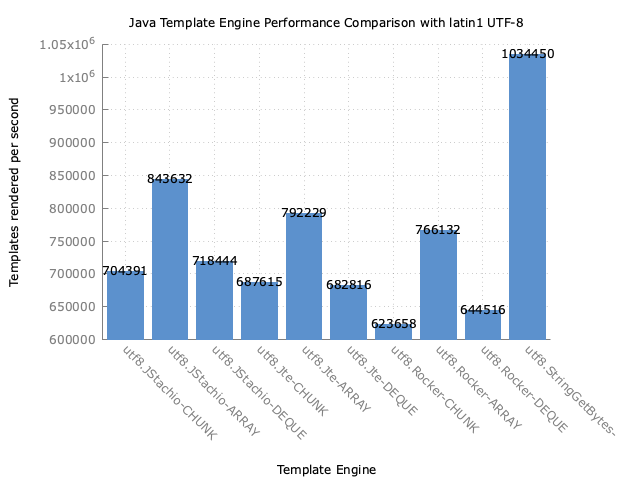
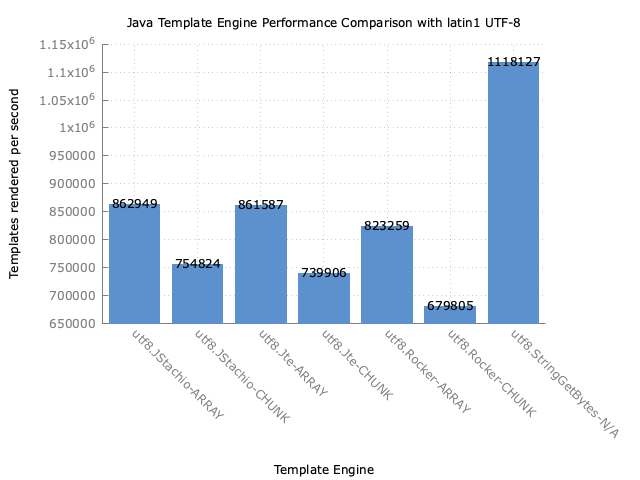
Explain output buffering algorithms

diff --git a/src/main/java/com/mitchellbosecke/benchmark/utf8/JStachioUtf8.java b/src/main/java/com/mitchellbosecke/benchmark/utf8/JStachioUtf8.java
@@ -8,7 +8,6 @@ import org.openjdk.jmh.annotations.Param;
 import org.openjdk.jmh.annotations.Setup;
 
 import com.mitchellbosecke.benchmark.BaseBenchmark;
-import com.mitchellbosecke.benchmark.JStachio;
 import com.mitchellbosecke.benchmark.JStachio.StocksModel;
 import com.mitchellbosecke.benchmark.JStachioStocksTemplate;
 import com.mitchellbosecke.benchmark.model.Stock;
@@ -40,8 +39,7 @@ public class JStachioUtf8 extends BaseBenchmark {
     public byte[] benchmark() throws IOException {
         try (var out = output.create()) {
             JStachioAdapter adapter = new JStachioAdapter(output.create());
-            //template.write(model, adapter);
-            JStachio.execute(adapter, model);
+            template.write(model, adapter);
             return adapter.getOutput().toByteArray();
         }
     }

diff --git a/src/main/java/com/mitchellbosecke/benchmark/output/OutputKind.java b/src/main/java/com/mitchellbosecke/benchmark/output/OutputKind.java
@@ -2,24 +2,24 @@ package com.mitchellbosecke.benchmark.output;
 
 
 public enum OutputKind {
-    CHUNK() {
-        @Override
-        public Utf8Output create() {
-            return new ChunkOutput(512);
-        }
-    },
     ARRAY() {
         @Override
         public Utf8Output create() {
             return new ByteArrayOutput();
         }
     },
-    DEQUE() {
+    CHUNK() {
         @Override
         public Utf8Output create() {
-            return new DequeOutput();
+            return new ChunkOutput(512);
         }
     };
+//    DEQUE() {
+//        @Override
+//        public Utf8Output create() {
+//            return new DequeOutput();
+//        }
+//    };
     
     public abstract Utf8Output create();
 }

diff --git a/src/main/java/com/mitchellbosecke/benchmark/JStachio.java b/src/main/java/com/mitchellbosecke/benchmark/JStachio.java
@@ -9,6 +9,8 @@ import com.mitchellbosecke.benchmark.model.Stock;
 
 import io.jstach.jstache.JStache;
 import io.jstach.jstache.JStacheConfig;
+import io.jstach.jstache.JStacheFlags;
+import io.jstach.jstache.JStacheFlags.Flag;
 import io.jstach.jstache.JStacheLambda;
 import io.jstach.jstachio.Appender;
 import io.jstach.jstachio.Escaper;
@@ -45,6 +47,7 @@ public class JStachio extends BaseBenchmark {
     @JStache(path = "templates/stocks.jstachio.html", 
             name="JStachioStocksTemplate")
     @JStacheConfig(contentType=PlainText.class)
+    @JStacheFlags(flags = Flag.NO_NULL_CHECKING)
     public static class StocksModel {
 
         public final List<Stock> items;

diff --git a/README.md b/README.md
@@ -49,6 +49,21 @@ The complying tests are suffixed with `Utf8`.
 leveraging pre-encoding and to show how fast it is on latin1 but how slow it is on extended characters.
 However it does not use threadlocals like the original test does.
 
+## Output Buffering Algorithms
+
+When a template engine executes it needs an output like object. Usually this is an `OutputStream`.
+In the case of high performance web applications that generate HTML the entire HTML output is usually buffered.
+The reason is that `content-length` header needs to be set and is a requirement for the TechEmpower benchmarks.
+
+* ARRAY - This is what JStachio uses and recommends. This is essentially `ByteArrayOutputStream` where an array grows.
+  The pre-encoded byte arrays are copied to a single array that will grow when needed.
+  It is notable in that it is the only one that can reuse allocation via threadlocal but this test does not do that.
+* CHUNK - JTE and Rocker use this algorithm for UTF-8 pre-encoding. The idea is to keep a list of byte arrays.
+* DEQUE - Basically CHUNK but uses a Deque instead of an ArrayList. This comes from Springs `FastByteArrayOutputStream`.
+
+To make things fair we test all three of the algorithms (deque is currently off)
+against each templating engine instead of letting the template engine choose.
+
 ## Extended UTF-8 test data :
 
 *Only 5* non-latin1 characters were added! (a mixture of Chinese and Japanese)
@@ -60,11 +75,16 @@ However it does not use threadlocals like the original test does.
 ## Original latin1 test data but with pre-encoding setups:
 
 Only latin1 characters are used in test data just like original benchmark 
-(actually the data is closer to ASCII as it is all below 255).
+(actually the data is closer to ASCII as it is all below 255). 
 
 `java  -jar target/benchmarks.jar Utf8 -rff results-ascii.csv -rf csv`
 
 ![Template Comparison](results-ascii.png)
+
+`StringBuilder.toString().getBytes(...)` is vastly superior to pre-encoding if
+all the characters are latin1. This is something you can leverage if you are absolutely
+certain all the characters are latin1 or even better ASCII. However a single emoji based
+on the previous results will make `toString().getBytes(...)` slow.
 
 
 ## Original String output test
